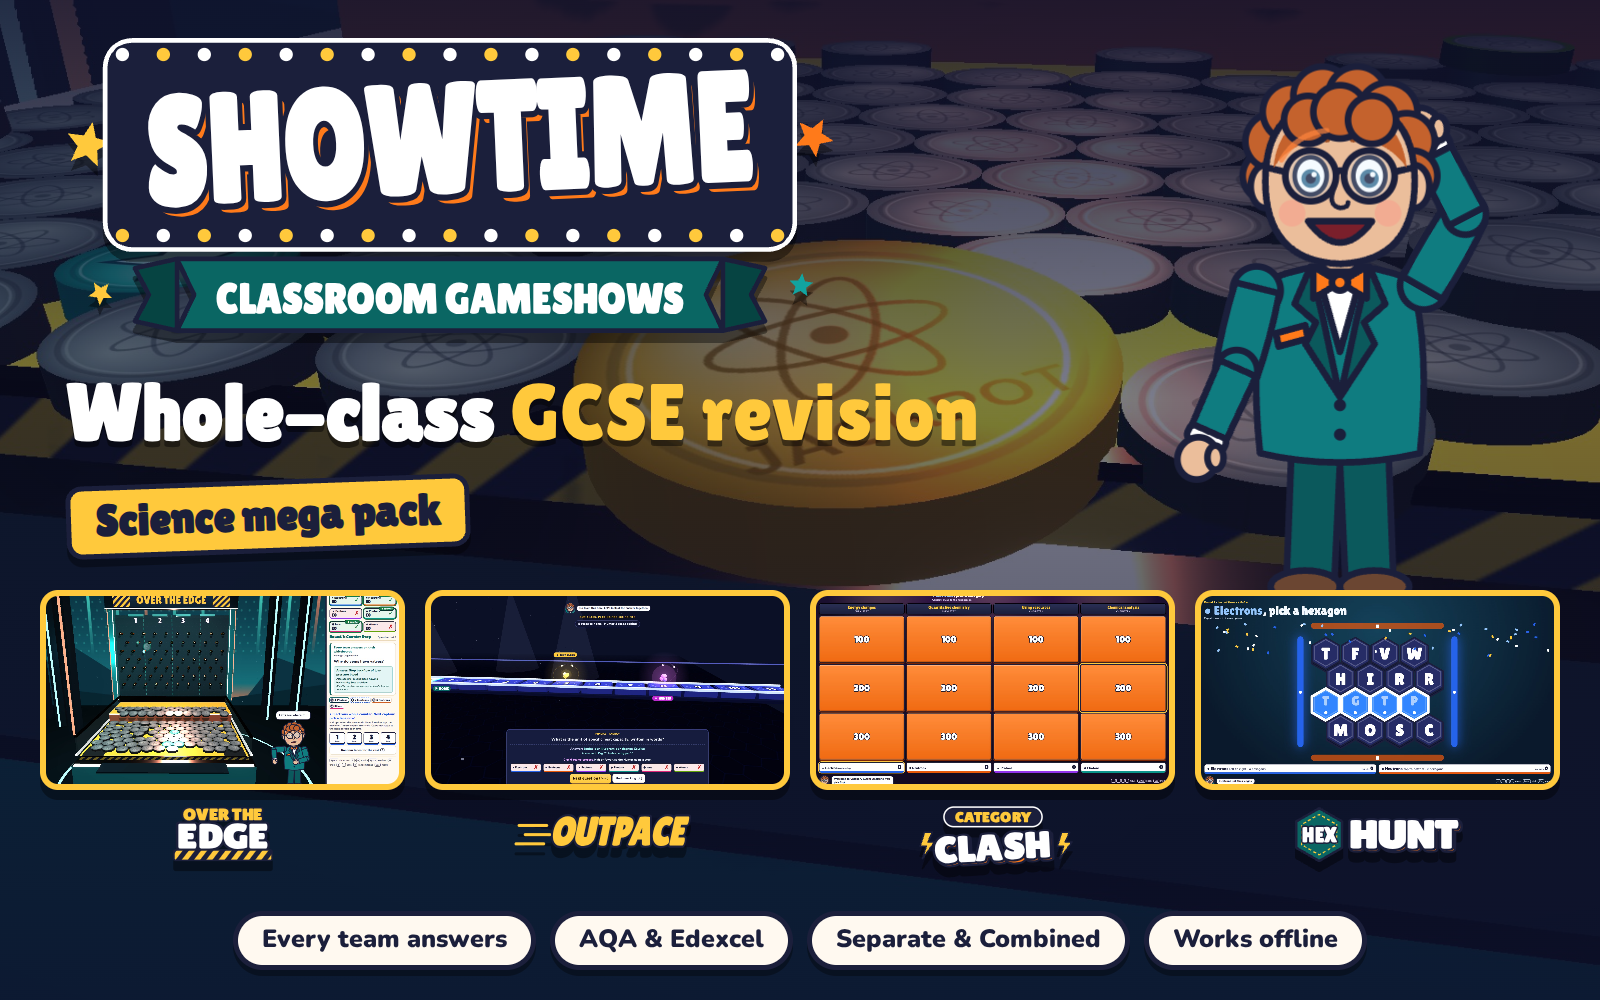
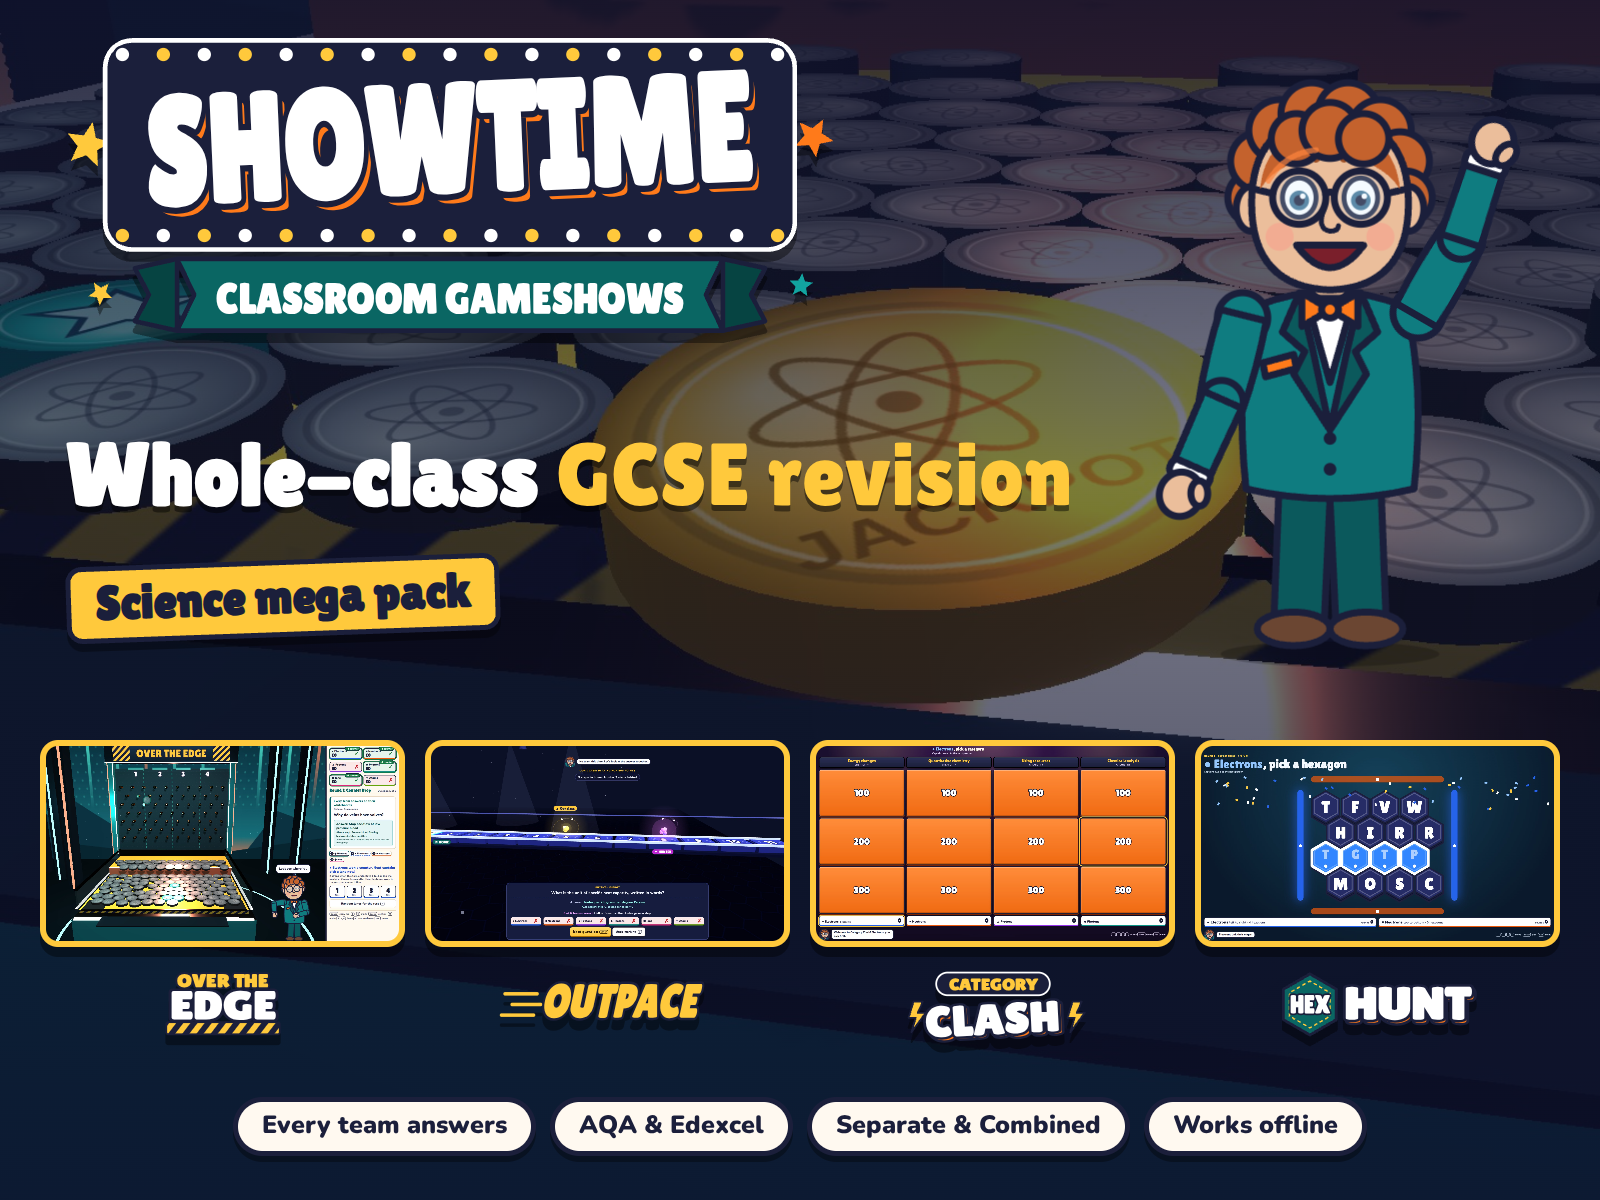
Tes cover: 4:3 (1600x1200) to fit Tes's crop
Claude-Session: https://claude.ai/code/session_018ibx6pHQ1dPu2QWbrPX6Ma

diff --git a/classroom-gameshow-bundle/tools/video/demo/cover.js b/classroom-gameshow-bundle/tools/video/demo/cover.js
@@ -1,5 +1,5 @@
 /*
- * The Tes listing cover (1600×1000), drawn by the app in its own fonts and artwork over frames of the demo shots:
+ * The Tes listing cover (1600×1200, 4:3: the ratio Tes crops listing images to), drawn by the app in its own fonts and artwork over frames of the demo shots:
  * the gold jackpot counter teetering as the backdrop, the wordmark, "Science mega pack", a still and logo for each
  * of the four games, the host, and the trust points. Render the shots first (tools/video/demo/build.sh).
  *   node tools/video/demo/cover.js   ->  marketing/video/tes-cover.png
@@ -21,7 +21,7 @@ const TILES = [
 const BG = data('jackpot', cue('jackpot', 'fall', -40));
 
 (async () => {
-  const { browser, page } = await L.open({ seed: 1, width: 1600, height: 1000 });
+  const { browser, page } = await L.open({ seed: 1, width: 1600, height: 1200 });
   await page.addStyleTag({ content: `
     body > :not(#cv) { display: none !important; }
     #cv { position: fixed; inset: 0; overflow: hidden; background: #141834; }
@@ -29,15 +29,15 @@ const BG = data('jackpot', cue('jackpot', 'fall', -40));
     #cv .shade { position: absolute; inset: 0; background: linear-gradient(180deg, rgba(14,16,44,0.86) 0%, rgba(14,16,44,0.55) 40%, rgba(14,16,44,0.82) 100%); }
     #cv .wm { position: absolute; left: 60px; top: 28px; width: 780px; }
     #cv .wm svg, #cv .lg svg { display: block; width: 100%; height: auto; filter: drop-shadow(0 10px 0 rgba(0,0,0,0.4)); }
-    #cv .hl { position: absolute; left: 66px; top: 372px; font-family: var(--display); font-size: 80px; line-height: 1; color: #fff; text-shadow: 0 6px 0 rgba(0,0,0,0.45); }
+    #cv .hl { position: absolute; left: 66px; top: 430px; font-family: var(--display); font-size: 88px; line-height: 1; color: #fff; text-shadow: 0 6px 0 rgba(0,0,0,0.45); }
     #cv .hl b { font-weight: 400; color: #FFC93C; }
-    #cv .bdg { position: absolute; left: 66px; top: 480px; font-family: var(--display); font-size: 44px; color: #1B1F3B; background: #FFC93C; border: 5px solid #1B1F3B; border-radius: 16px; padding: 4px 24px 8px; box-shadow: 0 8px 0 rgba(0,0,0,0.35); transform: rotate(-2deg); }
-    #cv #pip { position: absolute; right: 60px; top: 10px; width: 400px; height: 640px; }
-    #cv .row { position: absolute; left: 40px; right: 40px; top: 590px; display: flex; gap: 20px; }
+    #cv .bdg { position: absolute; left: 66px; top: 560px; font-family: var(--display); font-size: 48px; color: #1B1F3B; background: #FFC93C; border: 5px solid #1B1F3B; border-radius: 16px; padding: 4px 24px 8px; box-shadow: 0 8px 0 rgba(0,0,0,0.35); transform: rotate(-2deg); }
+    #cv #pip { position: absolute; right: 60px; top: 30px; width: 420px; height: 660px; }
+    #cv .row { position: absolute; left: 40px; right: 40px; top: 740px; display: flex; gap: 20px; }
     #cv .g { flex: 1; text-align: center; }
-    #cv .g .im { height: 200px; border-radius: 18px; border: 6px solid #FFC93C; background-size: cover; background-position: center; box-shadow: 0 10px 0 rgba(0,0,0,0.4); }
-    #cv .g .lg { width: 190px; margin: 14px auto 0; }
-    #cv .pills { position: absolute; left: 0; right: 0; bottom: 30px; display: flex; justify-content: center; gap: 14px; }
+    #cv .g .im { height: 207px; border-radius: 18px; border: 6px solid #FFC93C; background-size: cover; background-position: center; box-shadow: 0 10px 0 rgba(0,0,0,0.4); }
+    #cv .g .lg { width: 220px; margin: 22px auto 0; }
+    #cv .pills { position: absolute; left: 0; right: 0; bottom: 44px; display: flex; justify-content: center; gap: 14px; }
     #cv .pill { font-family: var(--body); font-weight: 900; font-size: 25px; color: #1B1F3B; background: #FFF9F0; border: 5px solid #1B1F3B; border-radius: 999px; padding: 6px 24px 9px; box-shadow: 0 6px 0 rgba(0,0,0,0.35); }
   ` });
   await page.evaluate(([tiles, bg]) => {
